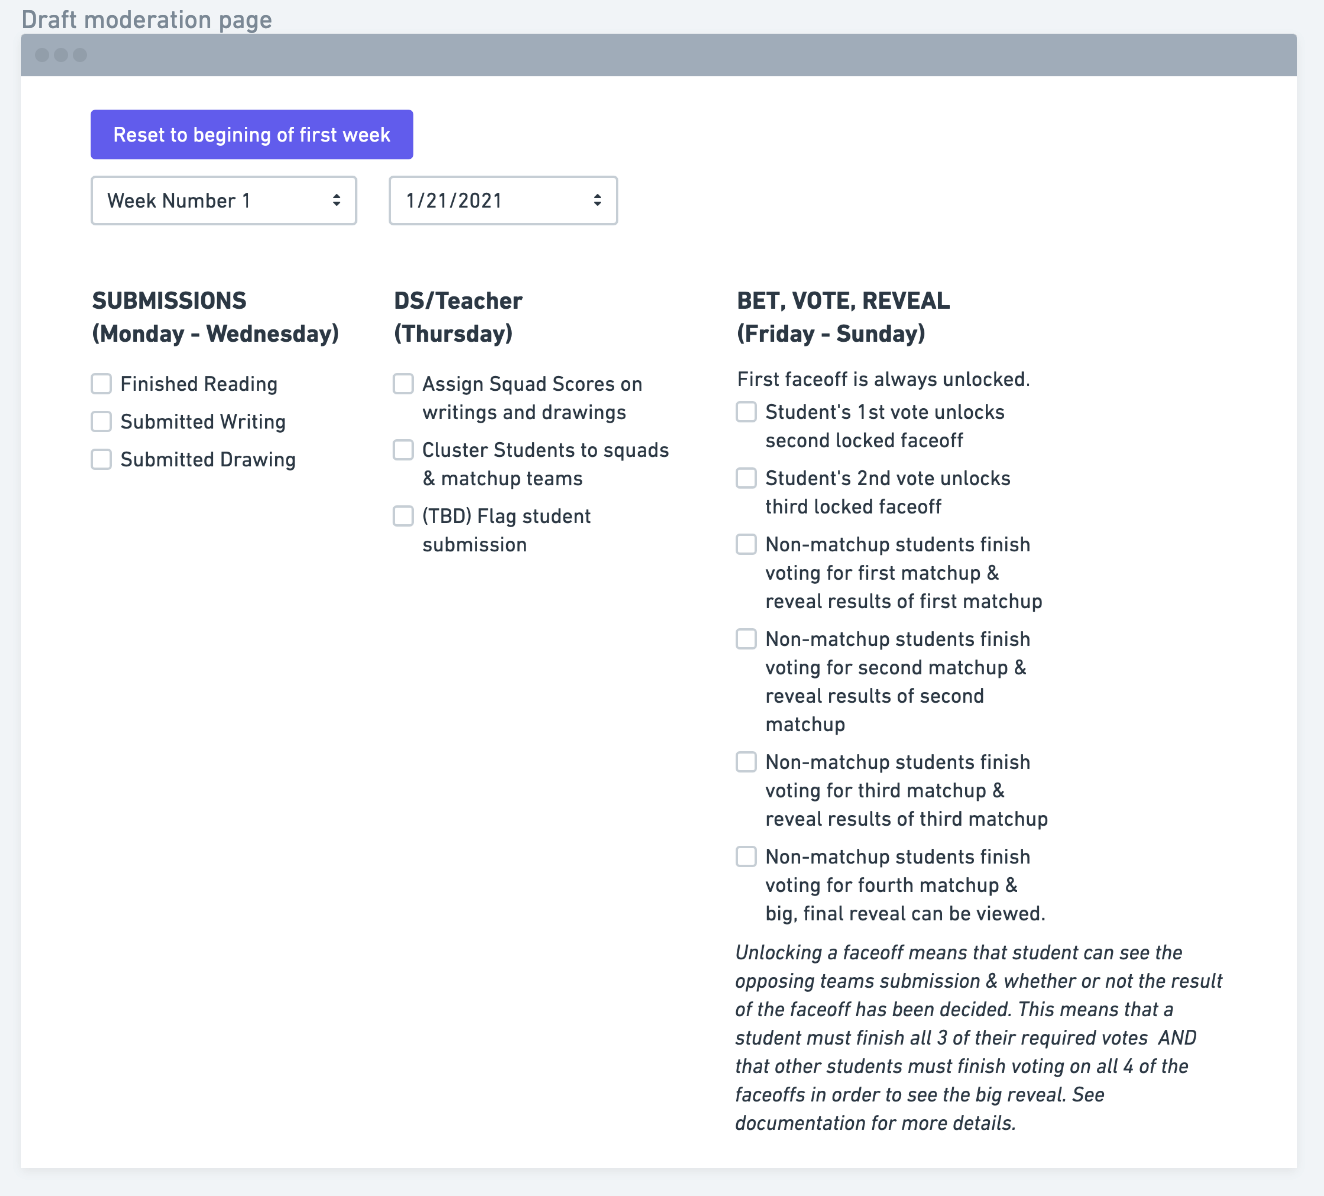
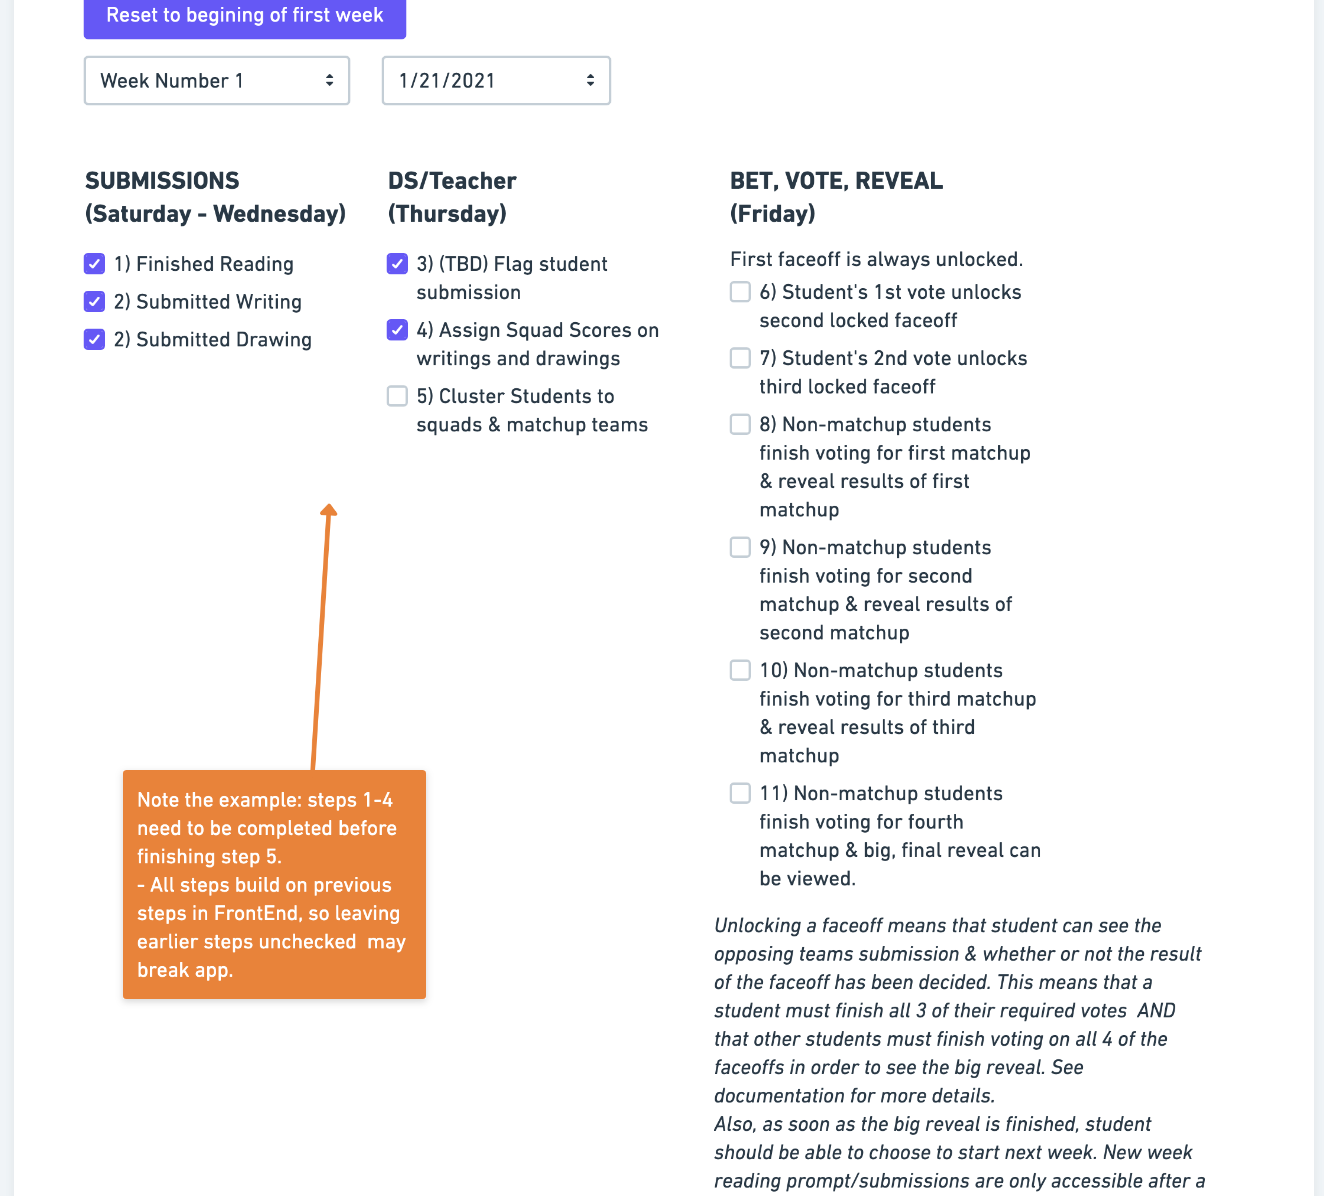
updated wirefram pic for storySquadExplained.md. Styled ModerationTest for futre

diff --git a/src/components/pages/ModerationTest/ModerationTest.js b/src/components/pages/ModerationTest/ModerationTest.js
@@ -27,8 +27,10 @@ import {
   Card,
   Col,
   Divider,
+  Collapse,
 } from 'antd';
-import FormItem from 'antd/lib/form/FormItem';
+// import Form.Item from 'antd/lib/form/FormItem';
+// import Sider from 'antd/lib/layout/Sider';
 const { Content } = Layout;
 const { Option } = Select;
 
@@ -120,24 +122,36 @@ const ModerationTest = props => {
         <h1>Story Squad</h1>
       </PageHeader>
       <Layout>
-        <Content>
-          <Form form={form}>
-            <Form.Item className="inline-form">
-              <Form.Item>
-                <Button type="default" onClick={homePageHandler}>
-                  Back to Home Page
-                </Button>
-              </Form.Item>
+        {/* <Sider>
+        Would links to fast scroll to specific sections be useful?
+        </Sider> */}
 
-              <Divider orientation="left">Moderator Tools</Divider>
+        <Content>
+          <Form.Item>
+            <Button type="default" onClick={homePageHandler}>
+              Back to Home Page
+            </Button>
+          </Form.Item>
+
+          <Divider orientation="left">Moderator Tools</Divider>
+          <Collapse style={{ width: '100%' }}>
+            <Collapse.Panel header="Notes & Instructions" key="1">
               <p>
                 Actions an adult moderator should be able to take to run the
-                game and approve/flag stories. This is a work in progress.
+                game and approve/flag stories. (This is a work in progress. also
+                not sure how "Reset Seeds" updates database & if it needs
+                updating or is finished.)
               </p>
+            </Collapse.Panel>
+          </Collapse>
+          <Form form={form}>
+            <Form.Item className="inline-form">
               <Form.Item>
                 <Button type="default" onClick={handleFaceoffs}>
                   Go to Faceoffs/Matchups
                 </Button>
+              </Form.Item>
+              <Form.Item>
                 <Button type="reset" onClick={reset}>
                   Reset Seeds
                 </Button>
@@ -153,25 +167,32 @@ const ModerationTest = props => {
                   Generate Results
                 </Button>
               </Form.Item>
-
-              <Divider orientation="left">Posts for moderation</Divider>
-              <p>
-                After students add submissions, are displayed here for a
-                moderator to read and approve or reject. Select a cohort to load
-                submissions. (Need to finish some functionality, see notes in
-                code).
-              </p>
-
-              <Form.Item name="cohort">
-                <Select placeholder="Select a Cohort" onChange={getPosts}>
-                  {cohorts.map(x => (
-                    <Option key={x.ID} value={x.ID}>
-                      Cohort {x.ID}
-                    </Option>
-                  ))}
-                </Select>
-              </Form.Item>
             </Form.Item>
+          </Form>
+
+          <Divider orientation="left">Posts for moderation</Divider>
+          <Form>
+            <Collapse style={{ width: '100%' }}>
+              <Collapse.Panel header="Instructions" key="2">
+                <p>
+                  After students add submissions, are displayed here for a
+                  moderator to read and approve or reject. Select a cohort to
+                  load submissions. (Need to finish some functionality, see
+                  notes in code).
+                </p>
+              </Collapse.Panel>
+            </Collapse>
+            {/* <Form.Item> */}
+            <Form.Item name="cohort">
+              <Select placeholder="Select a Cohort" onChange={getPosts}>
+                {cohorts.map(x => (
+                  <Option key={x.ID} value={x.ID}>
+                    Cohort {x.ID}
+                  </Option>
+                ))}
+              </Select>
+            </Form.Item>
+            {/* </Form.Item> */}
           </Form>
 
           <Row gutter={16}>
@@ -187,8 +208,7 @@ const ModerationTest = props => {
                     <Card>
                       <Card.Meta
                         title={`Status: ${cur.status || 'PENDING'}`}
-                        // Why is this description broken??? Please fix.
-                        // description={`Pages: ${Object.keys(cur.pages).length}`}
+                        description={`Pages: ${Object.keys(cur.Pages).length}`}
                       />
                       Drawing: {<img alt="Student Drawing" src={cur.Image} />}
                       {/* Will need to update writing images displayed when student submits multiple pages of writing. I don't understand how backend is handling multiple pages yet.*/}
@@ -205,19 +225,54 @@ const ModerationTest = props => {
           </Row>
 
           <Divider orientation="left">Dev Tools</Divider>
-          <p>
-            Use these to simulate a child's progress quickly. These will update
-            the database as you submit. (NOTE: These are a work in progress
-            still & need functinality finished!!!)
-          </p>
-          <FormItem>
-            <span className="datePickerTxt">Change date and time to:</span>
-            <DatePicker
-              selected={startDate}
-              showTimeSelect
-              onChange={handleCustomDateChange}
-            />
-          </FormItem>
+          <Collapse>
+            <Collapse.Panel header="Dev Notes" key="3">
+              <p>
+                Use these to simulate a child's progress quickly. These will
+                update the database as you submit. (NOTE: These are a work in
+                progress still & need functinality finished to allow better
+                developer testing of features over time!!!)
+              </p>
+              <ol>
+                <li>
+                  Ideally, you after picking cohort, you are allowed to choose
+                  the week, then the exact date in that week. They should
+                  somehow be interconnected, since every exact date is part of a
+                  speific week number depending on the cohort.
+                </li>
+                <li>
+                  Bonus points if these autofill with the current
+                  cohort/week/date in the database.
+                </li>
+              </ol>
+            </Collapse.Panel>
+          </Collapse>
+          <Form form={form}>
+            <Form.Item className="inline-form">
+              <Form.Item name="cohort">
+                {/* Needs database to have multiple cohorts to be able to select a different cohort. */}
+                <Select
+                  placeholder="Select a Cohort"
+                  // onChange={}
+                >
+                  {cohorts.map(x => (
+                    <Option key={x.ID} value={x.ID}>
+                      Cohort {x.ID}
+                    </Option>
+                  ))}
+                </Select>
+              </Form.Item>
+              <Form.Item></Form.Item>
+              <Form.Item>
+                <span className="datePickerTxt">Change date and time to:</span>
+                <DatePicker
+                  selected={startDate}
+                  showTimeSelect
+                  onChange={handleCustomDateChange}
+                />
+              </Form.Item>
+            </Form.Item>
+          </Form>
         </Content>
       </Layout>
     </Layout>

diff --git a/storysquadExplained.md b/storysquadExplained.md
@@ -11,7 +11,7 @@ Students that started at the same time will be placed in "cohorts." This will al
 
 ## Overview of week:
 
-(this is taken from a draft wireframe of the dev's `/moderation` page that is intended for devs to mock any needed steps)
+(This is from a draft wireframe of the dev's `/moderation` page that is intended for devs to quickly mock any needed steps. Note the numbered order of every step.)
 
 ![Draft of dev's moderation page](docs/draft-dev-moderation-page.png)
 
